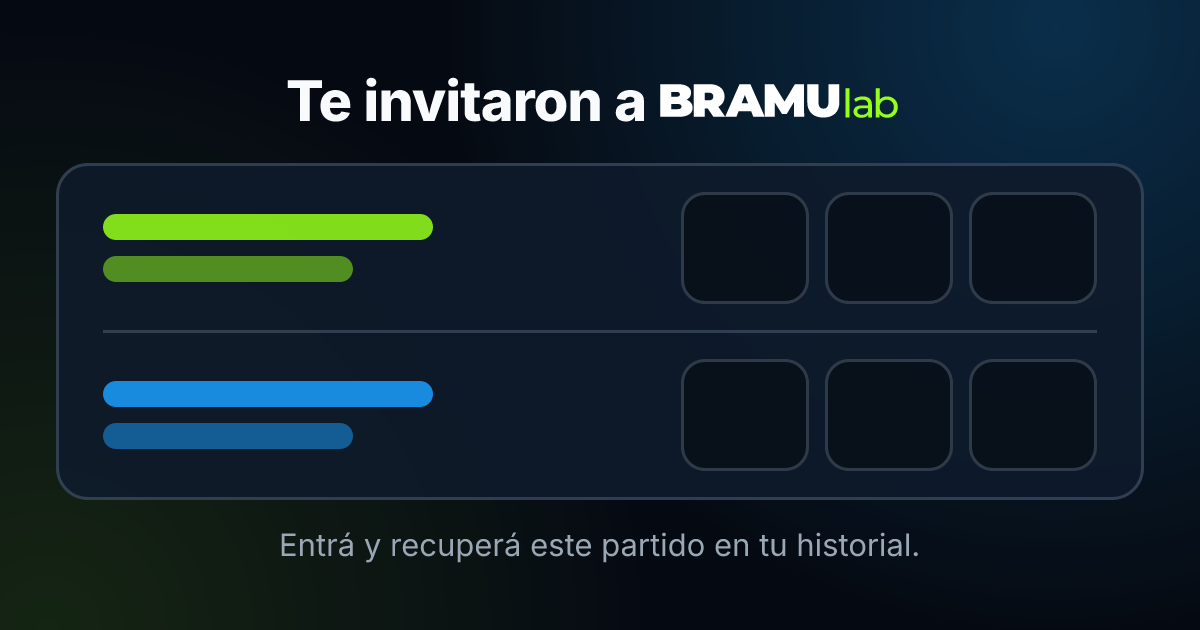
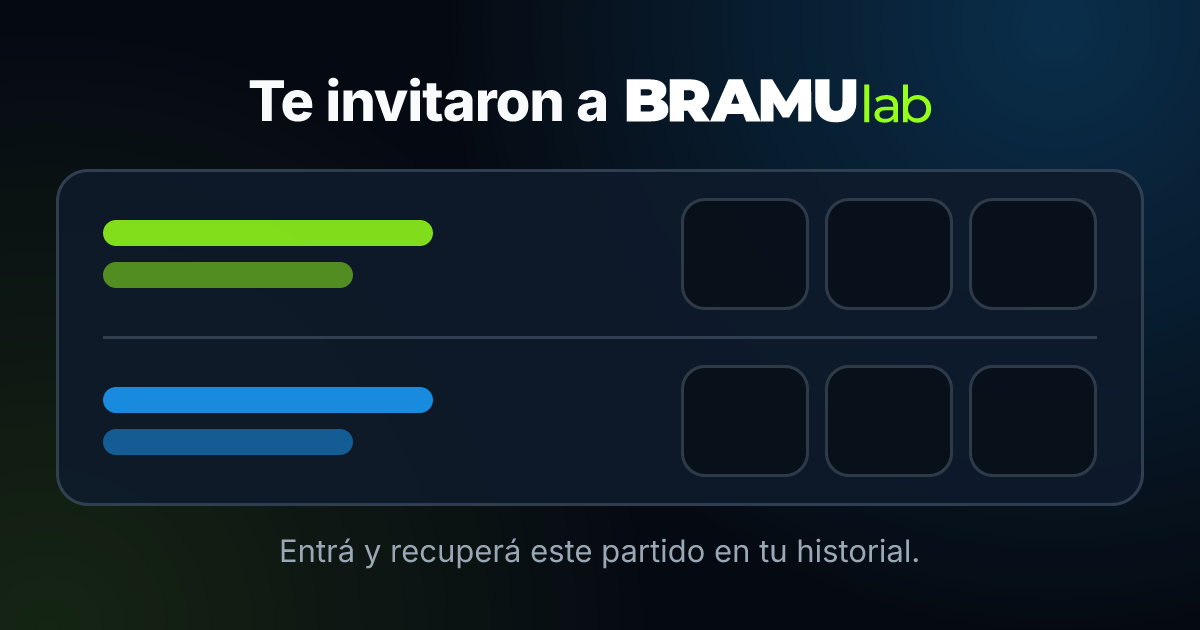
feat(invitaciones): V04.44 — transición legible de la microanimación y logotipo proporcionado en la tarjeta
- Animación: el partido ya no se encoge a una miniatura (escala mínima ~.84); se tiñe del verde de WhatsApp y el ícono de WhatsApp aparece grande sobre la tarjeta durante la transformación y el viaje; más tiempo en ese momento (total ~4,4 s); la tarjeta llega al historial con aro lima y check. Se retira la píldora diminuta. Sin textos nuevos; reduced-motion respetado.
- Tarjeta 1200x630 (dinámica y de marca): logotipo oficial dibujado a ~80 px de alto (la altura de sus letras iguala la del texto «Te invitaron a»), proporción 1080x250 intacta; misma composición.
- Versión V04.44 (bundle 04.44). Tests y docs al día.

diff --git a/bramulab/index.html b/bramulab/index.html
@@ -12,7 +12,7 @@
 <meta name="application-name" content="BRAMUlab" />
 <meta name="apple-mobile-web-app-title" content="BRAMUlab" />
 <meta name="apple-mobile-web-app-capable" content="yes" />
-<link rel="icon" href="icons/favicon-64.png?v=04.43" sizes="64x64" type="image/png" />
+<link rel="icon" href="icons/favicon-64.png?v=04.44" sizes="64x64" type="image/png" />
 <!-- G2 — iOS pide el apple-touch-icon al "Agregar a inicio" SIN cookies/credenciales: en un deployment protegido (Staging) esa
      request recibe la página de login de Vercel en vez del PNG y el ícono queda con la inicial/captura. Se incrusta el MISMO
      PNG real (icons/apple-touch-icon.png, 180x180 opaco) como data: URI, que no depende de ninguna request. Un test verifica
@@ -31,7 +31,7 @@
      APP_VERSION/version.json/CACHE_NAME (ver la misma nota en sw.js/CORE_ASSETS) — una URL con
      un valor nunca visto antes no puede ser un cache hit, sin importar qué headers mande el
      servidor. -->
-<link rel="stylesheet" href="styles.css?v=04.43" />
+<link rel="stylesheet" href="styles.css?v=04.44" />
 </head>
 <body>
 
@@ -1952,7 +1952,7 @@
         <!-- 07OCT26 h9 — ficha superior inspirada en el patrón visual de una ficha de app,
              sin simular App Store: identidad BRAMUlab + capacidades reales del producto. -->
         <div class="install-prompt__app">
-          <span class="install-prompt__app-icon-frame" aria-hidden="true"><img class="install-prompt__app-icon" src="icons/icon-512.png?v=04.43" alt="" /></span>
+          <span class="install-prompt__app-icon-frame" aria-hidden="true"><img class="install-prompt__app-icon" src="icons/icon-512.png?v=04.44" alt="" /></span>
           <div class="install-prompt__app-meta">
             <h2 class="install-prompt__app-name" id="install-prompt-title">BRAMUlab</h2>
             <p class="install-prompt__app-sub">Donde vive tu pádel</p>
@@ -2006,7 +2006,7 @@
 
       <div id="install-prompt-ios-guide" class="install-prompt__panel" hidden>
         <div class="install-prompt__ios-head">
-          <span class="install-prompt__ios-icon-frame" aria-hidden="true"><img class="install-prompt__ios-icon" src="icons/icon-512.png?v=04.43" alt="" /></span>
+          <span class="install-prompt__ios-icon-frame" aria-hidden="true"><img class="install-prompt__ios-icon" src="icons/icon-512.png?v=04.44" alt="" /></span>
           <div>
             <div class="install-prompt__eyebrow">EN iOS / iPadOS</div>
             <h2 class="install-prompt__title">Agregá BRAMUlab a Inicio</h2>
@@ -3058,7 +3058,7 @@
         <button type="button" id="invite-sheet-close" class="bottom-sheet__close" aria-label="Cerrar"><svg viewBox="0 0 24 24" width="14" height="14" fill="none" stroke="currentColor" stroke-width="2" stroke-linecap="round" aria-hidden="true"><path d="M6 6l12 12M18 6L6 18"/></svg></button>
       </div>
       <div class="bottom-sheet__level invite-sheet__body">
-        <!-- V04.43 — microhistoria (~3,8 s, una vez por apertura; el estado BASE es el final): el partido real → se vuelve invitación y se comparte →
+        <!-- V04.44 — microhistoria (~3,8 s, una vez por apertura; el estado BASE es el final): el partido real → se vuelve invitación y se comparte →
              llega al historial de quien lo recupera. La tarjeta es el componente real `.result-card` con los nombres/games reales del partido (se arma
              en JS con buildResultRowsHTML; sin datos, barras neutras: nunca se inventan). Sin rótulos por etapa. Con prefers-reduced-motion se ve el final. -->
         <div class="invite-anim" id="invite-anim" aria-hidden="true">
@@ -3069,12 +3069,9 @@
               <div class="ia2-hrow ia2-hrow--2"><i></i><i></i></div>
             </div>
             <div class="ia2-trail"><i></i><i></i><i></i></div>
-            <div class="ia2-chip">
-              <span class="ia2-wa"><svg viewBox="0 0 24 24" width="16" height="16" fill="currentColor" aria-hidden="true"><path d="M17.472 14.382c-.297-.149-1.758-.867-2.03-.967-.273-.099-.471-.148-.67.15-.197.297-.767.966-.94 1.164-.173.199-.347.223-.644.075-.297-.15-1.255-.463-2.39-1.475-.883-.788-1.48-1.761-1.653-2.059-.173-.297-.018-.458.13-.606.134-.133.298-.347.446-.52.149-.174.198-.298.298-.497.099-.198.05-.371-.025-.52-.075-.149-.669-1.612-.916-2.207-.242-.579-.487-.5-.669-.51-.173-.008-.371-.01-.57-.01-.198 0-.52.074-.792.372-.272.297-1.04 1.016-1.04 2.479 0 1.462 1.065 2.875 1.213 3.074.149.198 2.096 3.2 5.077 4.487.709.306 1.262.489 1.694.625.712.227 1.36.195 1.871.118.571-.085 1.758-.719 2.006-1.413.248-.694.248-1.289.173-1.413-.074-.124-.272-.198-.57-.347m-5.421 7.403h-.004a9.87 9.87 0 01-5.031-1.378l-.361-.214-3.741.982.998-3.648-.235-.374a9.86 9.86 0 01-1.51-5.26c.001-5.45 4.436-9.884 9.888-9.884 2.64 0 5.122 1.03 6.988 2.898a9.825 9.825 0 012.893 6.994c-.003 5.45-4.437 9.884-9.885 9.884m8.413-18.297A11.815 11.815 0 0012.05 0C5.495 0 .16 5.335.157 11.892c0 2.096.547 4.142 1.588 5.945L.057 24l6.305-1.654a11.882 11.882 0 005.683 1.448h.005c6.554 0 11.89-5.335 11.893-11.893a11.821 11.821 0 00-3.48-8.413Z"/></svg></span>
-              <i></i><i></i>
-            </div>
             <div class="ia2-card" id="invite-anim-card">
               <div class="result-card result-card--compact"><div class="result-card__rows" id="invite-anim-rows"></div></div>
+              <span class="ia2-wabig"><svg viewBox="0 0 24 24" width="24" height="24" fill="currentColor" aria-hidden="true"><path d="M17.472 14.382c-.297-.149-1.758-.867-2.03-.967-.273-.099-.471-.148-.67.15-.197.297-.767.966-.94 1.164-.173.199-.347.223-.644.075-.297-.15-1.255-.463-2.39-1.475-.883-.788-1.48-1.761-1.653-2.059-.173-.297-.018-.458.13-.606.134-.133.298-.347.446-.52.149-.174.198-.298.298-.497.099-.198.05-.371-.025-.52-.075-.149-.669-1.612-.916-2.207-.242-.579-.487-.5-.669-.51-.173-.008-.371-.01-.57-.01-.198 0-.52.074-.792.372-.272.297-1.04 1.016-1.04 2.479 0 1.462 1.065 2.875 1.213 3.074.149.198 2.096 3.2 5.077 4.487.709.306 1.262.489 1.694.625.712.227 1.36.195 1.871.118.571-.085 1.758-.719 2.006-1.413.248-.694.248-1.289.173-1.413-.074-.124-.272-.198-.57-.347m-5.421 7.403h-.004a9.87 9.87 0 01-5.031-1.378l-.361-.214-3.741.982.998-3.648-.235-.374a9.86 9.86 0 01-1.51-5.26c.001-5.45 4.436-9.884 9.888-9.884 2.64 0 5.122 1.03 6.988 2.898a9.825 9.825 0 012.893 6.994c-.003 5.45-4.437 9.884-9.885 9.884m8.413-18.297A11.815 11.815 0 0012.05 0C5.495 0 .16 5.335.157 11.892c0 2.096.547 4.142 1.588 5.945L.057 24l6.305-1.654a11.882 11.882 0 005.683 1.448h.005c6.554 0 11.89-5.335 11.893-11.893a11.821 11.821 0 00-3.48-8.413Z"/></svg></span>
               <span class="ia2-sheen"></span>
               <span class="ia2-badge"><svg viewBox="0 0 24 24" width="12" height="12" fill="none" stroke="currentColor" stroke-width="3" stroke-linecap="round" stroke-linejoin="round"><path d="M5 12.5l4.5 4.5L19 7.5"/></svg></span>
             </div>
@@ -3567,45 +3564,45 @@
        cambiar versión+hash JUNTOS (los tests verifican que el pin tenga la forma exacta y que haya integrity). -->
   <script src="https://cdn.jsdelivr.net/npm/@supabase/supabase-js@2.117.2/dist/umd/supabase.js" integrity="sha384-Rj26LVGvoeRVR6+mwQmFfcR3QOBEwT+ZmuCWpuiqeTzJpCs0ER4ITAWGb4Hiy3Ok" crossorigin="anonymous"></script>
   <script src="env.generated.js"></script>
-  <script src="engine.js?v=04.43"></script>
-  <script src="stats.js?v=04.43"></script>
-  <script src="store.js?v=04.43"></script>
+  <script src="engine.js?v=04.44"></script>
+  <script src="stats.js?v=04.44"></script>
+  <script src="store.js?v=04.44"></script>
   <!-- Hardening V04.37-h8 (exposición/IP) — el navegador YA NO carga `level.js` ni `level-context.js`: el motor
        dinámico de Nivel (expectativa, margen, K, repetición, círculo, confianza, inactividad) corre solo en las
        Edge Functions y en tests. `level-public.js` expone únicamente lo que la app usa de `PLLevel`
        (STATES, ALGORITHM_VERSION, roundPublicLevel, clampLevel). `level-calibration.js` (cuestionario/estimador
        inicial V1.3) sigue siendo client-side a propósito. Ver docs/.../139_Resultado_Hardening_Exposicion_IP_06OCT.md. -->
-  <script src="level-public.js?v=04.43"></script>
-  <script src="level-calibration.js?v=04.43"></script>
-  <script src="player-home.js?v=04.43"></script>
-  <script src="match-load.js?v=04.43"></script>
-  <script src="player-identity.js?v=04.43"></script>
-  <script src="groups.js?v=04.43"></script>
-  <script src="locations.js?v=04.43"></script>
-  <script src="ranking.js?v=04.43"></script>
+  <script src="level-public.js?v=04.44"></script>
+  <script src="level-calibration.js?v=04.44"></script>
+  <script src="player-home.js?v=04.44"></script>
+  <script src="match-load.js?v=04.44"></script>
+  <script src="player-identity.js?v=04.44"></script>
+  <script src="groups.js?v=04.44"></script>
+  <script src="locations.js?v=04.44"></script>
+  <script src="ranking.js?v=04.44"></script>
   <!-- Backend Bloque 2 — ver comentario de arriba (supabase-js/env.generated.js). auth.js es el
        único módulo que llama a Supabase; player-identity.js/store.js siguen sin depender de él. -->
-  <script src="auth.js?v=04.43"></script>
+  <script src="auth.js?v=04.44"></script>
   <!-- Backend Bloque 5 — matches.js (cliente de red de create_or_attach_match/get_my_matches/
        etc., mismo patrón que auth.js) + match-sync.js (funciones puras de traducción
        servidor -> forma local y separación historial/estadísticas, sin red ni DOM, mismo
        patrón que engine.js/stats.js/player-home.js). Ambos inertes sin backend configurado. -->
-  <script src="matches.js?v=04.43"></script>
-  <script src="match-sync.js?v=04.43"></script>
+  <script src="matches.js?v=04.44"></script>
+  <script src="match-sync.js?v=04.44"></script>
   <!-- Backend Bloque 6 (Fase B) — match-validation.js: cliente de red de Confirmar/Proponer
        corrección/Responder corrección/No participé/identidad/Notificaciones, mismo patrón que
        auth.js/matches.js. Inerte sin backend configurado. -->
-  <script src="match-validation.js?v=04.43"></script>
+  <script src="match-validation.js?v=04.44"></script>
   <!-- Hotfix 27/09/2026 (handoff 37) — match-self-heal.js: función pura/testeable que detecta
        readyForValidation=true en una lectura de get_my_matches y arma el reintento silencioso
        de officialize-match que refreshServerMatches (app.js) ya invoca. Sin red ni DOM propios,
        mismo patrón que match-sync.js. -->
-  <script src="match-self-heal.js?v=04.43"></script>
+  <script src="match-self-heal.js?v=04.44"></script>
   <!-- Backend Bloque 8 (Fase D) — intelligence-client.js: cliente de red de
        get-match-intelligence (BRAMU Intelligence real y persistente, mismo patrón que
        match-validation.js). Los módulos puros A/B/C/D corren exclusivamente server-side dentro
        de la Edge Function — nunca se cargan en el navegador. Inerte sin backend configurado. -->
-  <script src="intelligence-client.js?v=04.43"></script>
-  <script src="app.js?v=04.43"></script>
+  <script src="intelligence-client.js?v=04.44"></script>
+  <script src="app.js?v=04.44"></script>
 </body>
 </html>

diff --git a/bramulab/styles.css b/bramulab/styles.css
@@ -4141,40 +4141,41 @@ a.profile-row-action{ text-decoration:none; color: inherit; display:flex; }
   background: linear-gradient(90deg, rgba(255,255,255,0), rgba(255,255,255,0.16), rgba(255,255,255,0)); }
 .ia2-badge{ position:absolute; right:-6px; top:-8px; width:22px; height:22px; border-radius:50%; display:grid; place-items:center;
   background: var(--brand-lime); color: var(--bg); box-shadow: 0 0 0 3px var(--surface-2), 0 6px 14px -4px rgba(149,255,25,0.6); }
-.ia2-chip{ position:absolute; left:50%; top:50%; width:128px; height:40px; margin:-20px 0 0 -64px; display:flex; align-items:center; gap:7px; padding:0 12px;
-  border-radius:20px; color: var(--brand-lime); background: rgba(149,255,25,0.10); border:1.5px solid rgba(149,255,25,0.7); box-shadow: 0 0 22px rgba(149,255,25,0.28); opacity:0; }
-.ia2-wa{ flex:none; width:26px; height:26px; border-radius:50%; display:grid; place-items:center; background:#25D366; color:#fff; box-shadow:0 0 0 0 rgba(37,211,102,0); }
-.ia2-chip i{ display:block; height:5px; border-radius:3px; background: rgba(149,255,25,0.55); }
-.ia2-chip i:nth-of-type(1){ width:34px; } .ia2-chip i:nth-of-type(2){ width:20px; opacity:.6; }
+.ia2-wabig{ position:absolute; left:50%; margin-left:-20px; top:-20px; z-index:2; width:40px; height:40px; border-radius:50%; display:grid; place-items:center; background:#25D366; color:#fff; opacity:0;
+  box-shadow: 0 0 0 3px var(--surface-2), 0 8px 18px -4px rgba(37,211,102,0.7); }
 .ia2-trail{ position:absolute; left:50%; top:50%; width:0; height:0; }
 .ia2-trail i{ position:absolute; top:-3px; width:6px; height:6px; border-radius:50%; background: var(--brand-lime); box-shadow: 0 0 10px rgba(149,255,25,0.8); opacity:0; }
 .ia2-trail i:nth-child(1){ left:60px; } .ia2-trail i:nth-child(2){ left:84px; top:-8px; } .ia2-trail i:nth-child(3){ left:108px; top:-13px; }
 
-@keyframes ia2-card { 0%{opacity:0;transform:translateY(16px) scale(.94)} 12%{opacity:1;transform:translateY(0) scale(1)} 34%{opacity:1;transform:translateY(0) scale(1)}
-  46%{opacity:1;transform:translateY(0) scale(.45)} 52%{opacity:0;transform:translateY(0) scale(.4)} 66%{opacity:0;transform:translate(34px,-26px) scale(.7)}
-  86%{opacity:1;transform:translate(0,0) scale(1.025)} 94%{opacity:1;transform:translate(0,0) scale(1)} 100%{opacity:1;transform:translate(0,0) scale(1)} }
-@keyframes ia2-ring { 0%,60%{box-shadow:0 0 0 1.5px rgba(183,211,235,0.14),0 0 0 rgba(149,255,25,0)} 86%{box-shadow:0 0 0 2px rgba(149,255,25,0.95),0 0 30px rgba(149,255,25,0.55)}
-  100%{box-shadow:0 0 0 1.5px rgba(149,255,25,0.55),0 0 22px -4px rgba(149,255,25,0.38)} }
-@keyframes ia2-hist { 0%,56%{opacity:0;transform:translateY(8px)} 76%,100%{opacity:1;transform:none} }
-@keyframes ia2-chip { 0%,41%{opacity:0;transform:scale(.7)} 46%{opacity:1;transform:scale(1)} 54%{opacity:1;transform:translateX(0) scale(1)}
-  66%{opacity:1;transform:translate(70px,-14px) scale(.9)} 74%,100%{opacity:0;transform:translate(150px,-26px) scale(.8)} }
-@keyframes ia2-wa { 0%,42%{transform:scale(.3);box-shadow:0 0 0 0 rgba(37,211,102,.7)} 50%{transform:scale(1.2)} 56%{transform:scale(1);box-shadow:0 0 0 0 rgba(37,211,102,.55)} 72%,100%{transform:scale(1);box-shadow:0 0 0 12px rgba(37,211,102,0)} }
-@keyframes ia2-dot { 0%,48%{opacity:0;transform:scale(.4)} 58%{opacity:.95;transform:scale(1)} 72%,100%{opacity:0;transform:scale(.5)} }
-@keyframes ia2-sheen { 0%,14%{opacity:0} 16%{opacity:1} 30%{opacity:1} 32%,100%{opacity:0} }
-@keyframes ia2-sweep { 0%,14%{left:-50%} 30%,100%{left:120%} }
+/* V04.44 — transición reajustada: el partido NO se encoge a una miniatura; baja apenas de escala (queda legible), se tiñe del verde de WhatsApp, el ícono de
+   WhatsApp aparece grande sobre la tarjeta y la lleva (con estela) hacia el destinatario; llega al historial con aro lima y el check de «recuperado». Total 4,4 s. */
+@keyframes ia2-card { 0%{opacity:0;transform:translateY(16px) scale(.94)} 11%{opacity:1;transform:translateY(0) scale(1)} 30%{opacity:1;transform:translate(0,0) scale(1)}
+  40%{opacity:1;transform:translate(0,0) scale(.86)} 51%{opacity:1;transform:translate(0,0) scale(.86)} 63%{opacity:1;transform:translate(150px,-6px) scale(.84)}
+  66%{opacity:0;transform:translate(290px,-12px) scale(.8)} 68%{opacity:0;transform:translate(70px,-24px) scale(.92)}
+  85%{opacity:1;transform:translate(0,0) scale(1.025)} 93%{opacity:1;transform:translate(0,0) scale(1)} 100%{opacity:1;transform:translate(0,0) scale(1)} }
+@keyframes ia2-ring { 0%,29%{box-shadow:0 0 0 1.5px rgba(183,211,235,0.14),0 0 0 rgba(149,255,25,0)} 40%{box-shadow:0 0 0 2px rgba(37,211,102,0.95),0 0 28px rgba(37,211,102,0.5)}
+  64%{box-shadow:0 0 0 2px rgba(37,211,102,0.95),0 0 28px rgba(37,211,102,0.5)} 67%{box-shadow:0 0 0 1.5px rgba(183,211,235,0.14),0 0 0 rgba(149,255,25,0)}
+  85%{box-shadow:0 0 0 2px rgba(149,255,25,0.95),0 0 30px rgba(149,255,25,0.55)} 100%{box-shadow:0 0 0 1.5px rgba(149,255,25,0.55),0 0 22px -4px rgba(149,255,25,0.38)} }
+@keyframes ia2-hist { 0%,58%{opacity:0;transform:translateY(8px)} 78%,100%{opacity:1;transform:none} }
+@keyframes ia2-wabig { 0%,31%{opacity:0;transform:scale(0) rotate(-12deg);box-shadow:0 0 0 3px var(--surface-2),0 8px 18px -4px rgba(37,211,102,0.7),0 0 0 0 rgba(37,211,102,0.6)}
+  38%{opacity:1;transform:scale(1.22) rotate(0)} 42%{opacity:1;transform:scale(1);box-shadow:0 0 0 3px var(--surface-2),0 8px 18px -4px rgba(37,211,102,0.7),0 0 0 0 rgba(37,211,102,0.6)}
+  56%{opacity:1;transform:scale(1);box-shadow:0 0 0 3px var(--surface-2),0 8px 18px -4px rgba(37,211,102,0.7),0 0 0 14px rgba(37,211,102,0)}
+  63%{opacity:1;transform:scale(1)} 66%,100%{opacity:0;transform:scale(.6)} }
+@keyframes ia2-dot { 0%,50%{opacity:0;transform:scale(.4)} 58%{opacity:.95;transform:scale(1)} 68%,100%{opacity:0;transform:scale(.5)} }
+@keyframes ia2-sheen { 0%,12%{opacity:0} 14%{opacity:1} 27%{opacity:1} 29%,100%{opacity:0} }
+@keyframes ia2-sweep { 0%,12%{left:-50%} 27%,100%{left:120%} }
 @keyframes ia2-pop { 0%{opacity:0;transform:scale(.55)} 100%{opacity:1;transform:none} }
 @keyframes ia2-slide { 0%{opacity:0;transform:translateX(-10px)} 100%{opacity:1;transform:none} }
-@keyframes ia2-badge { 0%,84%{opacity:0;transform:scale(0)} 92%{opacity:1;transform:scale(1.2)} 100%{opacity:1;transform:scale(1)} }
+@keyframes ia2-badge { 0%,88%{opacity:0;transform:scale(0)} 95%{opacity:1;transform:scale(1.25)} 100%{opacity:1;transform:scale(1)} }
 
-.invite-anim.is-playing .ia2-hist{ animation: ia2-hist 3.8s var(--ia-ease, cubic-bezier(.22,.8,.24,1)) both; }
-.invite-anim.is-playing .ia2-card{ animation: ia2-card 3.8s cubic-bezier(.22,.8,.24,1) both, ia2-ring 3.8s linear both; }
-.invite-anim.is-playing .ia2-chip{ animation: ia2-chip 3.8s cubic-bezier(.22,.8,.24,1) both; }
-.invite-anim.is-playing .ia2-wa{ animation: ia2-wa 3.8s cubic-bezier(.22,.8,.24,1) both; }
-.invite-anim.is-playing .ia2-trail i{ animation: ia2-dot 3.8s ease-out both; }
+.invite-anim.is-playing .ia2-hist{ animation: ia2-hist 4.4s var(--ia-ease, cubic-bezier(.22,.8,.24,1)) both; }
+.invite-anim.is-playing .ia2-card{ animation: ia2-card 4.4s cubic-bezier(.22,.8,.24,1) both, ia2-ring 4.4s linear both; }
+.invite-anim.is-playing .ia2-wabig{ animation: ia2-wabig 4.4s cubic-bezier(.22,.8,.24,1) both; }
+.invite-anim.is-playing .ia2-trail i{ animation: ia2-dot 4.4s ease-out both; }
 .invite-anim.is-playing .ia2-trail i:nth-child(2){ animation-delay: .12s; } .invite-anim.is-playing .ia2-trail i:nth-child(3){ animation-delay: .24s; }
-.invite-anim.is-playing .ia2-sheen{ animation: ia2-sheen 3.8s linear both; }
-.invite-anim.is-playing .ia2-sheen::before{ animation: ia2-sweep 3.8s cubic-bezier(.22,.8,.24,1) both; }
-.invite-anim.is-playing .ia2-badge{ animation: ia2-badge 3.8s cubic-bezier(.22,.8,.24,1) both; }
+.invite-anim.is-playing .ia2-sheen{ animation: ia2-sheen 4.4s linear both; }
+.invite-anim.is-playing .ia2-sheen::before{ animation: ia2-sweep 4.4s cubic-bezier(.22,.8,.24,1) both; }
+.invite-anim.is-playing .ia2-badge{ animation: ia2-badge 4.4s cubic-bezier(.22,.8,.24,1) both; }
 .invite-anim.is-playing .ia2-card .result-card__name{ animation: ia2-slide .5s cubic-bezier(.22,.8,.24,1) .25s both; }
 .invite-anim.is-playing .ia2-card .result-card__row[data-team="B"] .result-card__name, .invite-anim.is-playing .ia2-card .result-card__row[data-team="B"] .result-card__set{ animation-delay: .4s; }
 .invite-anim.is-playing .ia2-card .result-card__set{ animation: ia2-pop .42s cubic-bezier(.22,.8,.24,1) .45s both; }

diff --git a/bramulab/sw.js b/bramulab/sw.js
@@ -205,7 +205,7 @@
 // casilla opcional en el alta, fila «Medición de uso» en Configuración). La medición queda APAGADA hasta que el servidor fije la versión vigente.
 // V04.39 (09/10/2026) — Ronda 1 post-lanzamiento: Bienvenida con la fotografía de BRAMUlab-Inicio (bundle h5), invitación genérica en Buscar jugadores y Ayuda / Preguntas frecuentes.
 // V04.40 (09/10/2026) — cierre de Ronda 1 + Ronda 2: mensaje de invitación definitivo, tarjeta azul BRAMU, Ayuda en 9 preguntas / 4 categorías y descubrimiento de jugadores en Buscar jugadores (RPC get_player_discovery).
-const CACHE_NAME = 'bramulab-v04-43';
+const CACHE_NAME = 'bramulab-v04-44';
 // V03.1.6 — "?v=X" en los JS/CSS propios: DEBE ser el mismo valor que usan los <script src>/
 // <link> de index.html (ver nota ahí — bug real de update-loop en producción, nunca
 // reproducido en el dev server local porque ese sí manda Cache-Control: no-store en todo). Si
@@ -216,49 +216,49 @@ const CACHE_NAME = 'bramulab-v04-43';
 const CORE_ASSETS = [
   './',
   './index.html',
-  './styles.css?v=04.43',
-  './engine.js?v=04.43',
-  './stats.js?v=04.43',
-  './store.js?v=04.43',
+  './styles.css?v=04.44',
+  './engine.js?v=04.44',
+  './stats.js?v=04.44',
+  './store.js?v=04.44',
   // BRAMUlab_V04.5 — quedaban fuera de CORE_ASSETS desde que se agregaron a index.html en
   // V04.4 (a propósito, sin bump todavía); esta es la primera release real que los incluye.
-  './level-public.js?v=04.43',
-  './level-calibration.js?v=04.43',
-  './player-home.js?v=04.43',
-  './match-load.js?v=04.43',
-  './player-identity.js?v=04.43',
-  './groups.js?v=04.43',
-  './locations.js?v=04.43',
-  './ranking.js?v=04.43',
+  './level-public.js?v=04.44',
+  './level-calibration.js?v=04.44',
+  './player-home.js?v=04.44',
+  './match-load.js?v=04.44',
+  './player-identity.js?v=04.44',
+  './groups.js?v=04.44',
+  './locations.js?v=04.44',
+  './ranking.js?v=04.44',
   // Backend Bloque 2 — auth.js (nuevo). El CDN de supabase-js y env.generated.js NO se
   // pre-cachean acá a propósito: el primero es de otro origen (el fetch handler de abajo ya
   // trata cualquier origen externo aparte, "mejor esfuerzo" sin bloquear el install), y el
   // segundo varía por deploy (Vercel lo genera en build) — igual queda cacheado la primera vez
   // que se pide, por el fetch handler genérico de más abajo.
-  './auth.js?v=04.43',
+  './auth.js?v=04.44',
   // Backend Bloque 5 — matches.js/match-sync.js (nuevos). Igual criterio que auth.js: quedan
   // inertes sin backend configurado, pero se pre-cachean igual (offline-first para todos).
-  './matches.js?v=04.43',
-  './match-sync.js?v=04.43',
-  './match-validation.js?v=04.43',
+  './matches.js?v=04.44',
+  './match-sync.js?v=04.44',
+  './match-validation.js?v=04.44',
   // Hotfix 27/09/2026 (handoff 37) — match-self-heal.js (nuevo). Mismo criterio: sin red/DOM
   // propios, pre-cacheado igual.
-  './match-self-heal.js?v=04.43',
+  './match-self-heal.js?v=04.44',
   // Backend Bloque 8 (Fase D) — intelligence-client.js (nuevo). Mismo criterio: inerte sin
   // backend configurado, pre-cacheado igual.
-  './intelligence-client.js?v=04.43',
-  './app.js?v=04.43',
+  './intelligence-client.js?v=04.44',
+  './app.js?v=04.44',
   './manifest.webmanifest',
-  './icons/icon-192.png?v=04.43',
-  './icons/icon-512.png?v=04.43',
-  './icons/icon-512-maskable.png?v=04.43',
-  './icons/apple-touch-icon.png?v=04.43',
-  './icons/favicon-64.png?v=04.43',
-  './assets/home-primer-partido.jpg?v=04.43',
-  './assets/bienvenida-hero.jpg?v=04.43',
-  './assets/bienvenida-hero-desktop.jpg?v=04.43',
+  './icons/icon-192.png?v=04.44',
+  './icons/icon-512.png?v=04.44',
+  './icons/icon-512-maskable.png?v=04.44',
+  './icons/apple-touch-icon.png?v=04.44',
+  './icons/favicon-64.png?v=04.44',
+  './assets/home-primer-partido.jpg?v=04.44',
+  './assets/bienvenida-hero.jpg?v=04.44',
+  './assets/bienvenida-hero-desktop.jpg?v=04.44',
   './icons/padel-court-example.svg',
-  './icons/logo.svg?v=04.43',
+  './icons/logo.svg?v=04.44',
 ];
 
 self.addEventListener('install', (event) => {

diff --git a/bramulab/store.js b/bramulab/store.js
@@ -37,7 +37,7 @@
   // bump de bundle hasta ahora era detectable por esa comparación. Cambiar este string es lo
   // único que un cliente V04.10 legacy puede detectar; ver BUNDLE_VERSION más abajo para el
   // mecanismo nuevo que evita depender de esto en el futuro.
-  const APP_VERSION = 'BRAMUlab V04.43';
+  const APP_VERSION = 'BRAMUlab V04.44';
   // NUEVO — versión TÉCNICA de bundle, independiente de la versión pública de arriba. Antes de
   // esta ronda, un bump de bundle sin cambio de producto (Backend/Infraestructura, hotfixes)
   // solo se reflejaba en CACHE_NAME/CORE_ASSETS de sw.js (sufijo `-hN`) — invisible para
@@ -100,7 +100,7 @@
   // server-backed de jugador (avatar/username/Nivel real en Buscar Jugadores/RECIENTES), Mis
   // Jugadores server-backed real (player_saved_players), y títulos de Notificaciones honestos
   // (ver docs/BRAMUlab/Implementacion/Pre_Production/21_Resultado_Correccion_QA_26SEP.md).
-  const BUNDLE_VERSION = '04.43';
+  const BUNDLE_VERSION = '04.44';
   const KEYS = {
     ACTIVE_MATCH: 'bramulab.activeMatch.v1',
     HISTORY: 'bramulab.history.v1',

diff --git a/bramulab-invite/api/_lib/card.js b/bramulab-invite/api/_lib/card.js
@@ -67,8 +67,9 @@ export function buildCardTree(card, logoDataUri) {
   }, [
     // ARRIBA, centrado: «Te invitaron a [logo oficial]» (la única presencia de marca)
     el('div', { display: 'flex', alignItems: 'center', justifyContent: 'center', marginBottom: 28, fontSize: 56, fontWeight: 800, letterSpacing: -1 }, [
-      el('span', { color: C.text, marginRight: -4 }, 'Te invitaron a'),
-      el('img', { width: 270, height: 62 }, undefined, { src: logoDataUri, width: 270, height: 62 }),
+      el('span', { color: C.text, marginRight: 0 }, 'Te invitaron a'),
+      // el logotipo oficial tiene aire interno en su lienzo (1080×250): para que la altura de sus letras iguale la de «Te invitaron a» se dibuja a ~80 px de alto
+      el('img', { width: 346, height: 80, marginLeft: -4 }, undefined, { src: logoDataUri, width: 346, height: 80 }),
     ]),
     // EN EL CENTRO: el partido (protagonista)
     el('div', {

diff --git a/docs/BRAMUlab/Producto/Experiencia_Inicial.md b/docs/BRAMUlab/Producto/Experiencia_Inicial.md
@@ -1630,15 +1630,15 @@ Dentro de **BUSCAR JUGADORES** (sin pantallas nuevas, sin seguidores ni amistade
 - **Jugadores de tu zona** = cuentas registradas, activas y con perfil completo con el mismo `profiles.location_id` (localidad canónica) que el tuyo; sin GPS ni distancia; la zona no se amplía cuando hay pocos jugadores.
 - Nunca se sugiere: a vos mismo, provisionales, cuentas eliminadas/inactivas ni incompletas, ni a quien ya guardaste en Mis jugadores; en conexiones tampoco a quien ya jugó un partido oficial con vos; ninguna persona aparece en las dos secciones. Orden determinista simple (conexiones: más conexiones en común, luego @usuario; zona: orden estable por viewer). Contrato técnico: `Operacion/Backend_Infraestructura.md` §8.4.1. Privacidad: `Operacion/Privacidad_Legal.md` §19 (**DECISIÓN ABIERTA antes de publicar en Production**).
 
-## 30. V04.41 / V04.42 / V04.43 — Rediseño de la invitación a jugadores sin cuenta (Staging)
+## 30. V04.41 / V04.42 / V04.43 / V04.44 — Rediseño de la invitación a jugadores sin cuenta (Staging)
 
 **Reemplaza** la hoja `COPIAR INVITACIÓN` de §15.3 («No agregar botón especial de WhatsApp en esta ronda» queda superado). **No toca** identidades provisionales, claim, vinculación explícita, recuperación, duplicados, validación deportiva, Nivel ni Ranking. Spec de la ronda (handoff de Sebastián, 14/10/2026):
 
-1. **Hoja de invitación (mismo pop-up; V04.42 la deja corta y centrada).** El botón `INVITAR A {NOMBRE}` del Resumen no cambia. Composición, de arriba abajo y todo centrado: título `INVITÁ A {NOMBRE} A BRAMULAB` → **microhistoria** → una frase `{Nombre} podrá recuperar este partido y sumarlo a su historial.` → `ENVIAR POR WHATSAPP` (lima, principal) → «Compartir de otra manera» (acción de texto discreta, no un segundo botón) → aclaración pequeña `Invitación personal. Enviásela solo a {Nombre}.` (no se dice «de un solo uso»: el enlace puede abrirse varias veces y se consume al vincular la identidad). **Microhistoria (~3,8 s, una vez por apertura, sin rótulos por etapa, estado final atractivo; `prefers-reduced-motion` → solo el final):** el partido real cobra vida (componente real `.result-card` con los nombres y games reales, barrido de luz, sets que aparecen) → se encoge hasta ser una invitación (píldora lima con el **ícono de WhatsApp**, V04.43: deja claro que se comparte por WhatsApp; no es un envío automático) y viaja a la derecha con una estela → aparece un historial y el partido entra en él con un aro lima y una marca sutil de «recuperado». Es una **representación del proceso**, no un estado: no valida nada ni dice que el destinatario ya recuperó el partido. Sin datos utilizables se dibujan barras neutras (nunca nombres ni resultados inventados). Los nombres sin cuenta conservan el amarillo. Mismo lenguaje de movimiento que la web (`cubic-bezier(.22,.8,.24,1)`, aro lima con brillo). Sin contador de «primeras invitaciones».
+1. **Hoja de invitación (mismo pop-up; V04.42 la deja corta y centrada).** El botón `INVITAR A {NOMBRE}` del Resumen no cambia. Composición, de arriba abajo y todo centrado: título `INVITÁ A {NOMBRE} A BRAMULAB` → **microhistoria** → una frase `{Nombre} podrá recuperar este partido y sumarlo a su historial.` → `ENVIAR POR WHATSAPP` (lima, principal) → «Compartir de otra manera» (acción de texto discreta, no un segundo botón) → aclaración pequeña `Invitación personal. Enviásela solo a {Nombre}.` (no se dice «de un solo uso»: el enlace puede abrirse varias veces y se consume al vincular la identidad). **Microhistoria (~4,4 s, una vez por apertura, sin rótulos por etapa, estado final atractivo; `prefers-reduced-motion` → solo el final):** el partido real cobra vida (componente real `.result-card` con los nombres y games reales, barrido de luz, sets que aparecen) → **se transforma en invitación sin perder legibilidad** (V04.44: baja apenas a ~86 % de escala —antes llegaba a ~45 %—, se tiñe del verde de WhatsApp y el **ícono de WhatsApp aparece grande sobre la tarjeta**, centrado, durante ~1,4 s; no es un envío automático) y la lleva a la derecha con una estela → aparece un historial y el partido entra en él con un aro lima y una marca sutil de «recuperado». Es una **representación del proceso**, no un estado: no valida nada ni dice que el destinatario ya recuperó el partido. Sin datos utilizables se dibujan barras neutras (nunca nombres ni resultados inventados). Los nombres sin cuenta conservan el amarillo. Mismo lenguaje de movimiento que la web (`cubic-bezier(.22,.8,.24,1)`, aro lima con brillo). Sin contador de «primeras invitaciones».
 2. **Compartir.** `ENVIAR POR WHATSAPP` abre WhatsApp con el mensaje completo y el enlace ya escritos (`https://wa.me/?text=…`: abre la app en iPhone/Android, WhatsApp Web en escritorio, y la página de descarga de WhatsApp si no está instalado); la persona elige destinatario y envía — BRAMUlab nunca envía solo. No pide agenda ni contactos. `COMPARTIR DE OTRA MANERA` usa `navigator.share` si existe; si no existe o falla, copia el mensaje completo y, si tampoco se puede copiar, lo muestra para copiarlo a mano. Si el navegador bloquea la apertura automática (el enlace se genera por red, después del toque), la hoja deja un botón «Abrir WhatsApp» ya preparado. Cancelar el menú no es un error.
 3. **Mensaje (V04.42, texto único aprobado):** `¡Buenas! Nuestro partido ya está cargado en BRAMUlab. Te dejo el link acá 👇` y, en una línea nueva, el enlace personal. Igual para cualquiera que comparta el partido (no distingue al creador); sin explicaciones sobre reclamar/recuperar/validar (la tarjeta y el recorrido posterior lo explican); sin el nombre del invitado (puede ser un apodo). La persona elige destinatario y confirma el envío; BRAMUlab nunca envía solo.
 4. **Enlace personal corto:** en Staging `https://bramu-i.vercel.app/invitacion/{43 caracteres}` (antes `…/invitacion/{64 hex}`, ~117 caracteres): el MISMO token recodificado en base64url (sin pérdida, mismos 256 bits, vencimiento y rotación). La página/imagen las sirve el servicio público mínimo `bramulab-invite` (proyecto Vercel aparte, ver `Backend_Infraestructura.md` §9.2) y lleva a la app protegida en `/?claim={token}`, que conserva la captura existente (localStorage → login/alta → `¿JUGASTE ESTE PARTIDO?`). Los enlaces anteriores (`?claim=`, `/invitacion/{hex}`) siguen funcionando. Production conserva `{origen}/invitacion/{hex}` hasta que se publique. **Dirección definitiva decidida (producto):** `https://bramulab.com/invitacion/{código}` (se prefiere `/invitacion/` a `/i/` por claridad); por eso el servicio ya usa esa ruta: al adoptar el dominio oficial la app solo cambia `BRAMU_INVITE_BASE` (ver `Operacion_Vercel_Staging_Production.md`, «Servicio `bramu-i`»).
-5. **Vista previa de WhatsApp = el PARTIDO REAL (decisión de Sebastián, 14/10/2026, 2.ª parte de V04.41).** Quien posee un enlace personal **válido** (pendiente, no vencido, no revocado, no usado) ve, sin sesión, un resumen mínimo del partido de origen: imagen 1200×630 donde **el partido es el protagonista** y la composición es (V04.43): **arriba, centrado, «Te invitaron a [logo oficial BRAMUlab]»** (única presencia de marca); **en el centro** el partido — dos parejas (una por fila, la de la identidad invitada primero, lima/celeste) con **los cuatro nombres grandes** y **games reales por set grandes** (ganador del set resaltado, perdedor atenuado); **abajo** «Entrá y recuperá este partido en tu historial.» Sin otros mensajes. Nunca guiones ni sets inventados. Mecanismo: `{base}/i/{código}/og.png` (servicio `bramulab-invite`, `api/og.js`: satori + resvg-wasm con Inter y el logo oficial) → RPC público `get_invitation_card(token)` (única lectura `anon`, ver `Backend_Infraestructura.md` §9.2 y `Privacidad_Legal.md` §21). **Cualquier fallo** (enlace inválido/vencido/rotado/usado, RPC no responde, migración sin aplicar, error de render) cae a la tarjeta de **marca** (`bramulab-invite/og/marca.png`, sin datos, misma ruta y 200): una invitación nunca queda sin imagen. Los metadatos de texto (`og:title`/`description`), `og:url` y el HTML no llevan nombres ni resultados; el token solo viaja en la URL de la imagen (la misma credencial del enlace compartido). Respuestas con `Cache-Control: private, no-store`, `noindex`, `Referrer-Policy: no-referrer`.
+5. **Vista previa de WhatsApp = el PARTIDO REAL (decisión de Sebastián, 14/10/2026, 2.ª parte de V04.41).** Quien posee un enlace personal **válido** (pendiente, no vencido, no revocado, no usado) ve, sin sesión, un resumen mínimo del partido de origen: imagen 1200×630 donde **el partido es el protagonista** y la composición es (V04.43): **arriba, centrado, «Te invitaron a [logo oficial BRAMUlab]»** (única presencia de marca; V04.44: logotipo dibujado a ~80 px de alto para que la altura de sus letras iguale la del texto, sin deformar su proporción 1080×250); **en el centro** el partido — dos parejas (una por fila, la de la identidad invitada primero, lima/celeste) con **los cuatro nombres grandes** y **games reales por set grandes** (ganador del set resaltado, perdedor atenuado); **abajo** «Entrá y recuperá este partido en tu historial.» Sin otros mensajes. Nunca guiones ni sets inventados. Mecanismo: `{base}/i/{código}/og.png` (servicio `bramulab-invite`, `api/og.js`: satori + resvg-wasm con Inter y el logo oficial) → RPC público `get_invitation_card(token)` (única lectura `anon`, ver `Backend_Infraestructura.md` §9.2 y `Privacidad_Legal.md` §21). **Cualquier fallo** (enlace inválido/vencido/rotado/usado, RPC no responde, migración sin aplicar, error de render) cae a la tarjeta de **marca** (`bramulab-invite/og/marca.png`, sin datos, misma ruta y 200): una invitación nunca queda sin imagen. Los metadatos de texto (`og:title`/`description`), `og:url` y el HTML no llevan nombres ni resultados; el token solo viaja en la URL de la imagen (la misma credencial del enlace compartido). Respuestas con `Cache-Control: private, no-store`, `noindex`, `Referrer-Policy: no-referrer`.
 6. **Sin cuenta en el Resumen.** Los nombres de identidades provisionales de la tabla de resultado usan el amarillo ya existente (`--gold`, clase `.player-name--pending`) sin cambiar el verde/celeste de las parejas ni el marcador, con la aclaración `Sin cuenta` (sección `JUGADORES SIN CUENTA`) y una leyenda breve bajo la tarjeta. Mismo criterio en el mini-partido del destinatario.
 7. **Destinatario.** La pregunta es neutral: `¿JUGASTE ESTE PARTIDO?` (sin dirigir un apodo como «¿SOS REMERA CELESTE?»), con el lugar de la identidad invitada resaltado como «Sin cuenta» dentro del mini-partido y la explicación fiel («si ese lugar es el tuyo, este partido y los demás asociados a esa identidad pasan a tu historial»). Botones `SÍ, ESE SOY YO` / `NO, NO SOY YO` con exactamente la misma lógica (explícita, sin consumir el link al rechazar).
 

diff --git a/docs/BRAMUlab/README.md b/docs/BRAMUlab/README.md
@@ -17,9 +17,9 @@ Este README es el **punto de entrada y mapa de autoridad documental** de BRAMUla
 
 ---
 
-## 14/10/2026 — V04.41 → V04.43 · Invitación a jugadores sin cuenta (Staging; sin publicar)
+## 14/10/2026 — V04.41 → V04.44 · Invitación a jugadores sin cuenta (Staging; sin publicar)
 
-Pop-up corto con **microhistoria** del partido real (cargado → invitación compartida → recuperado), `ENVIAR POR WHATSAPP` + «Compartir de otra manera», mensaje único aprobado, enlace corto (mismo token en base64url) y tarjeta de vista previa con el partido real. Versión visible simple: **V04.43** (sin sufijos `h1/h2`; V04.43 = ícono de WhatsApp en la animación + tarjeta recompuesta: título arriba, partido al centro, frase abajo). La vista previa pública la sirve el servicio auxiliar `bramu-i` (carpeta `bramulab-invite/`; Staging está protegido). Dirección definitiva decidida: `bramulab.com/invitacion/{código}` (pendiente de publicar). **Production, `main` y BRAMUlive intactos.** Fuentes: `Producto/Experiencia_Inicial.md` §30; `Operacion/Backend_Infraestructura.md` §9.2; `Operacion/Privacidad_Legal.md` §21; `Operacion/Operacion_Vercel_Staging_Production.md` («Servicio auxiliar `bramu-i`»).
+Pop-up corto con **microhistoria** del partido real (cargado → invitación compartida → recuperado), `ENVIAR POR WHATSAPP` + «Compartir de otra manera», mensaje único aprobado, enlace corto (mismo token en base64url) y tarjeta de vista previa con el partido real. Versión visible simple: **V04.44** (sin sufijos `h1/h2`; V04.43 = ícono de WhatsApp + tarjeta recompuesta; V04.44 = transición legible de la animación y logotipo proporcionado en la tarjeta). La vista previa pública la sirve el servicio auxiliar `bramu-i` (carpeta `bramulab-invite/`; Staging está protegido). Dirección definitiva decidida: `bramulab.com/invitacion/{código}` (pendiente de publicar). **Production, `main` y BRAMUlive intactos.** Fuentes: `Producto/Experiencia_Inicial.md` §30; `Operacion/Backend_Infraestructura.md` §9.2; `Operacion/Privacidad_Legal.md` §21; `Operacion/Operacion_Vercel_Staging_Production.md` («Servicio auxiliar `bramu-i`»).
 
 ---
 
